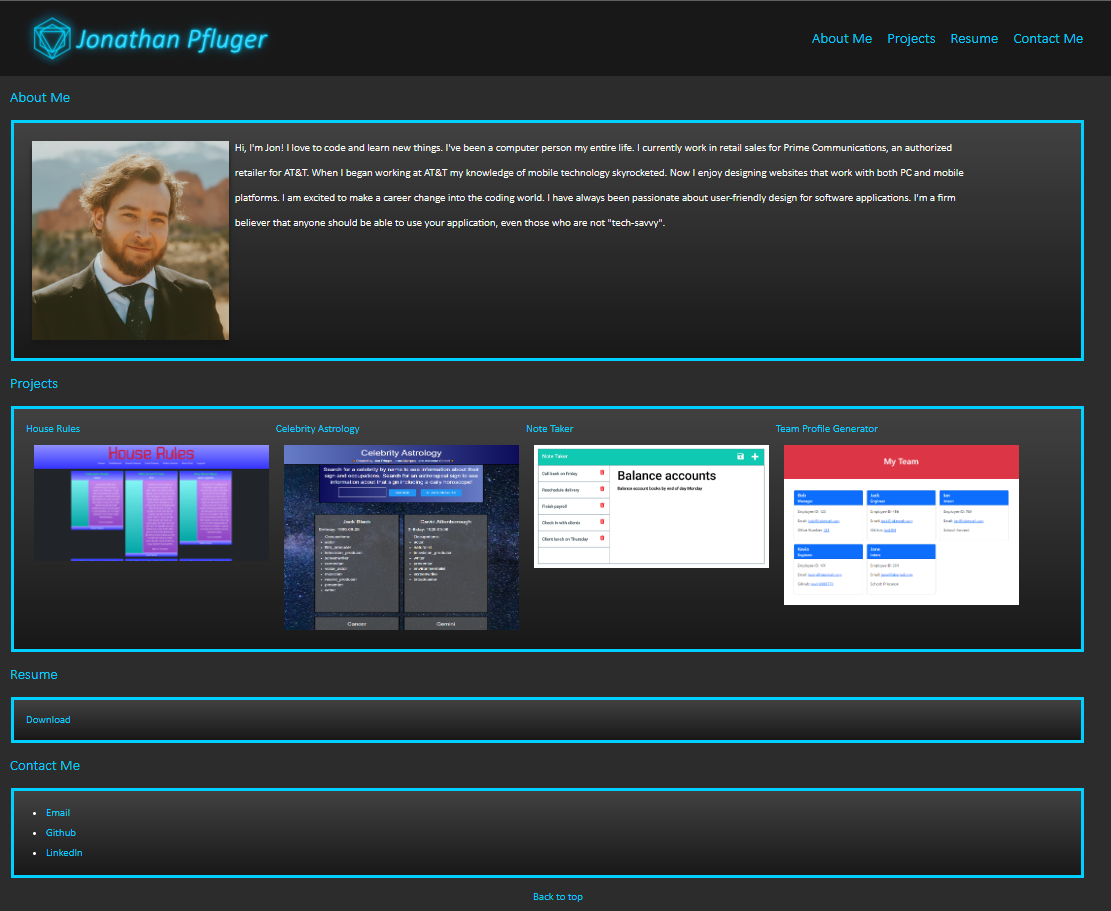
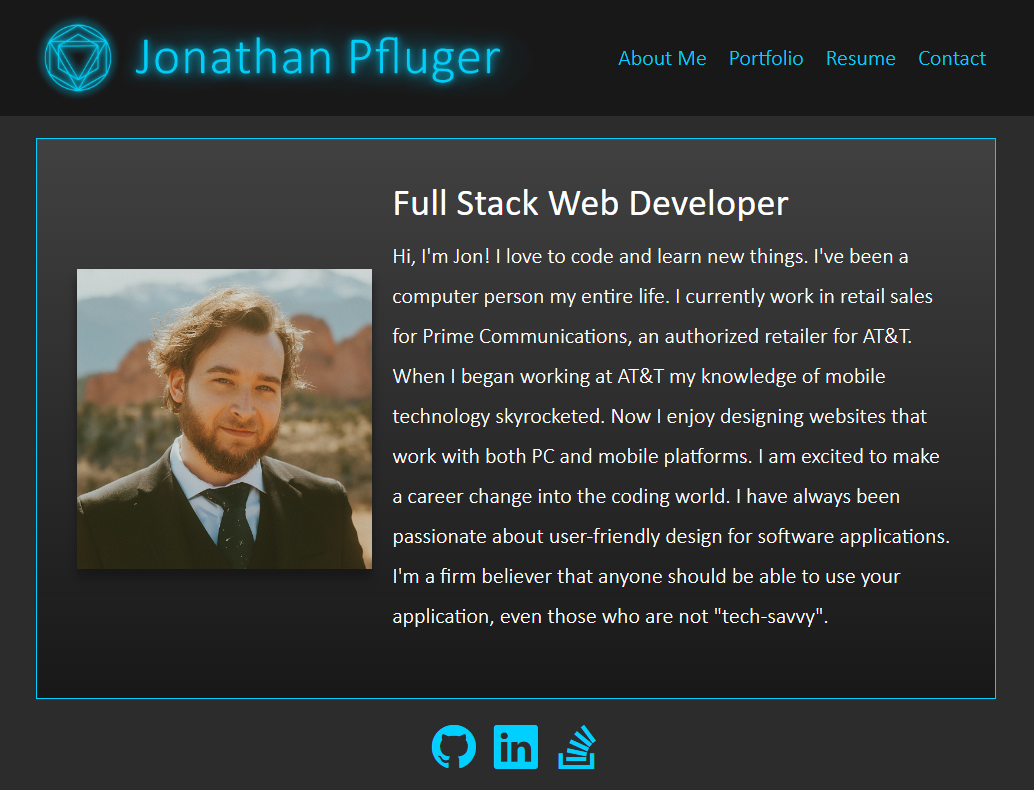
readme update with screenshot

diff --git a/README.md b/README.md
@@ -2,14 +2,13 @@
 
 ## Description
 
-<!-- This website is my portfolio showcasing my work. I will continue to update it as I go with more projects.
-
-While making this portfolio, I learned about Flexbox and how to make a responsive design. This makes the website mobile friendly. -->
-
+New portfolio built with React!
+- Used `npx create-react-app`.
+- Designed for "mobile-first".
 
 ## Screenshot
 
-<!-- ![Screenshot of my portfolio](./src/images/screenshot.png) -->
+![Screenshot of my portfolio](./src/images/screenshot.png)
 
 
 ## Link
